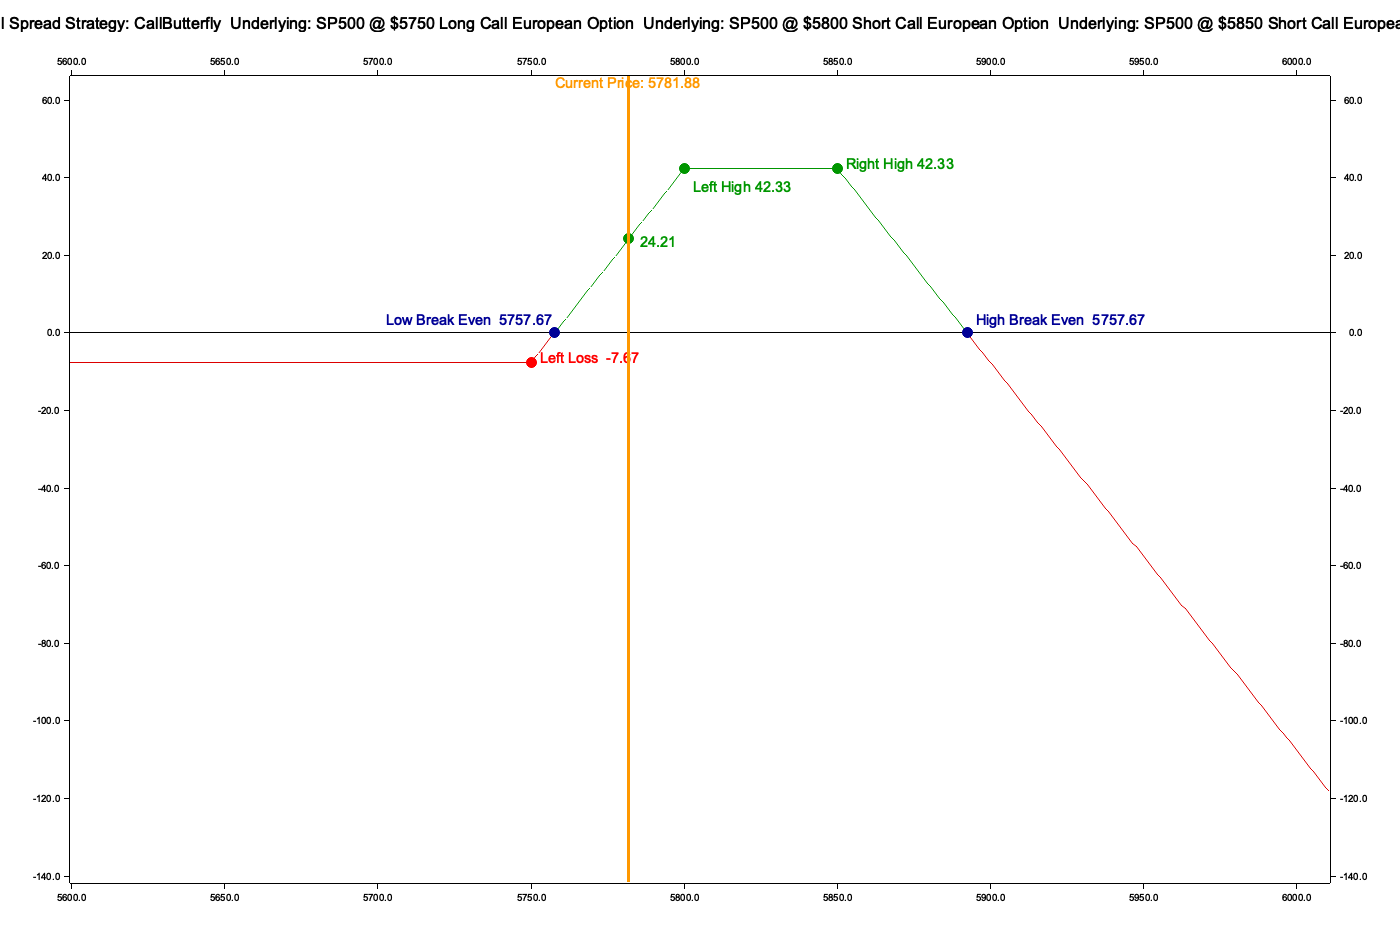
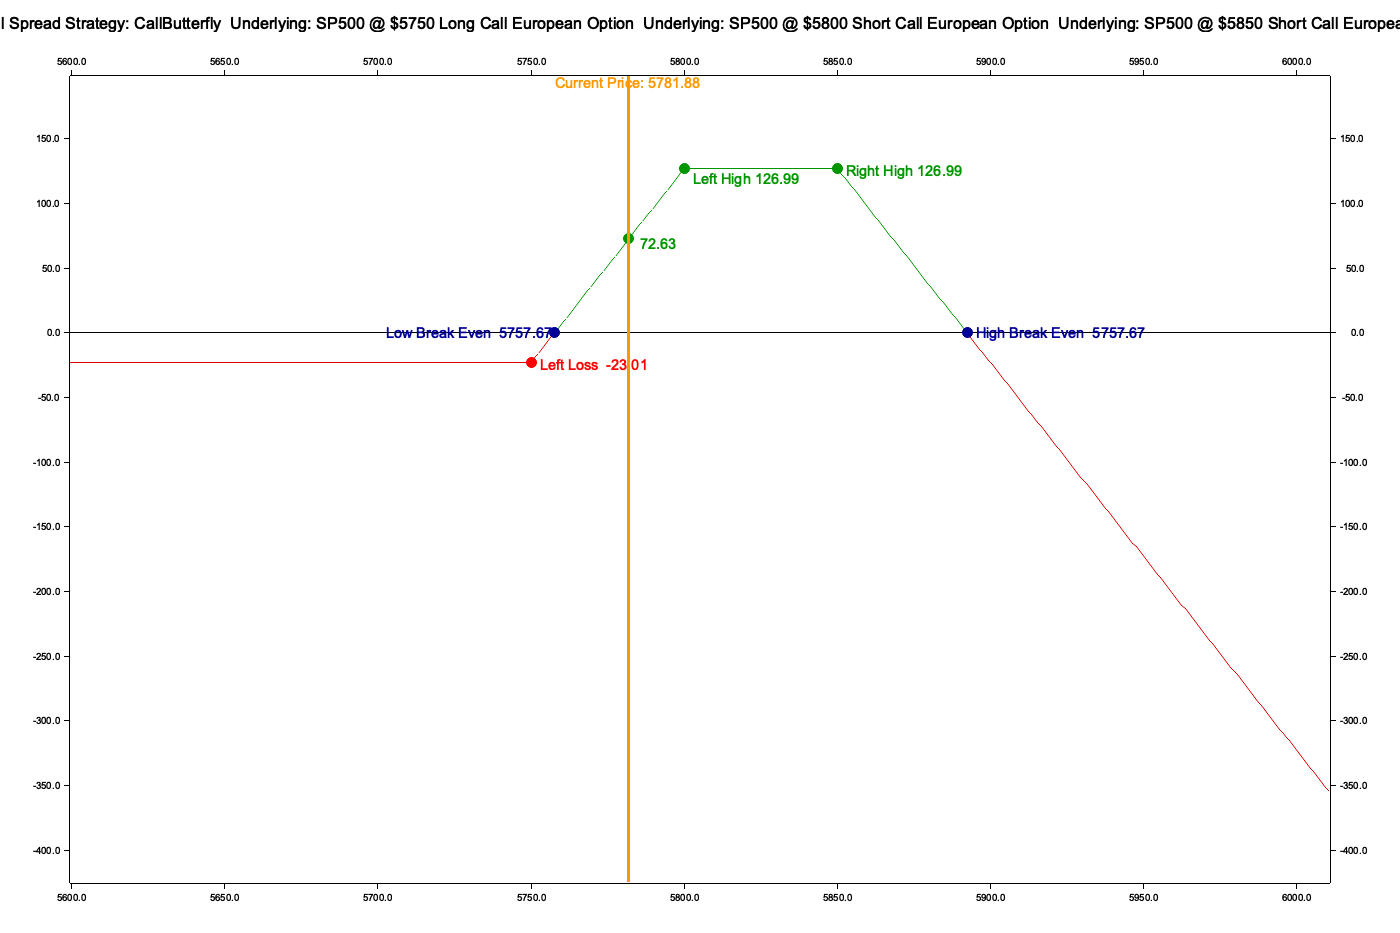
Round break-even points to two decimal places.
This update ensures break-even points are rounded for better precision in calculations. Additionally, removed the unused `fees` function to reduce code clutter and adjusted the long contract quantity in the example script for more realistic simulation. (ref. #83)

diff --git a/src/strategies/call_butterfly.rs b/src/strategies/call_butterfly.rs
@@ -160,14 +160,16 @@ impl CallButterfly {
 
         // Calculate break-even points
         strategy.break_even_points.push(
-            strategy.long_call.option.strike_price
-                - strategy.calculate_profit_at(strategy.long_call.option.strike_price) / quantity,
+            (strategy.long_call.option.strike_price
+                - strategy.calculate_profit_at(strategy.long_call.option.strike_price) / quantity)
+                .round_to(2),
         );
 
         strategy.break_even_points.push(
-            strategy.short_call_high.option.strike_price
+            (strategy.short_call_high.option.strike_price
                 + strategy.calculate_profit_at(strategy.short_call_high.option.strike_price)
-                    / quantity,
+                    / quantity)
+                .round_to(2),
         );
 
         strategy
@@ -263,17 +265,7 @@ impl Strategies for CallButterfly {
         let result = if premium > ZERO { premium } else { ZERO };
         Ok(Decimal::from_f64(result).unwrap())
     }
-
-    fn fees(&self) -> Result<Decimal, StrategyError> {
-        let result = self.short_call_low.open_fee
-            + self.short_call_low.close_fee
-            + self.short_call_high.open_fee
-            + self.short_call_high.close_fee
-            + self.long_call.open_fee * self.long_call.option.quantity
-            + self.long_call.close_fee * self.long_call.option.quantity;
-        Ok(Decimal::from_f64(result).unwrap())
-    }
-
+    
     fn profit_area(&self) -> Result<Decimal, StrategyError> {
         let break_even = self.get_break_even_points()?;
         if break_even.len() != 2 {

diff --git a/examples/examples_strategies/src/bin/strategy_call_butterfly.rs b/examples/examples_strategies/src/bin/strategy_call_butterfly.rs
@@ -29,7 +29,7 @@ fn main() -> Result<(), Box<dyn Error>> {
         pos!(0.18),     // implied_volatility
         dec!(0.05),     // risk_free_rate
         Positive::ZERO, // dividend_yield
-        pos!(1.0),      // long quantity
+        pos!(3.0),      // long quantity
         85.04,          // premium_long_itm
         53.04,          // premium_long_otm
         28.85,          // premium_short
